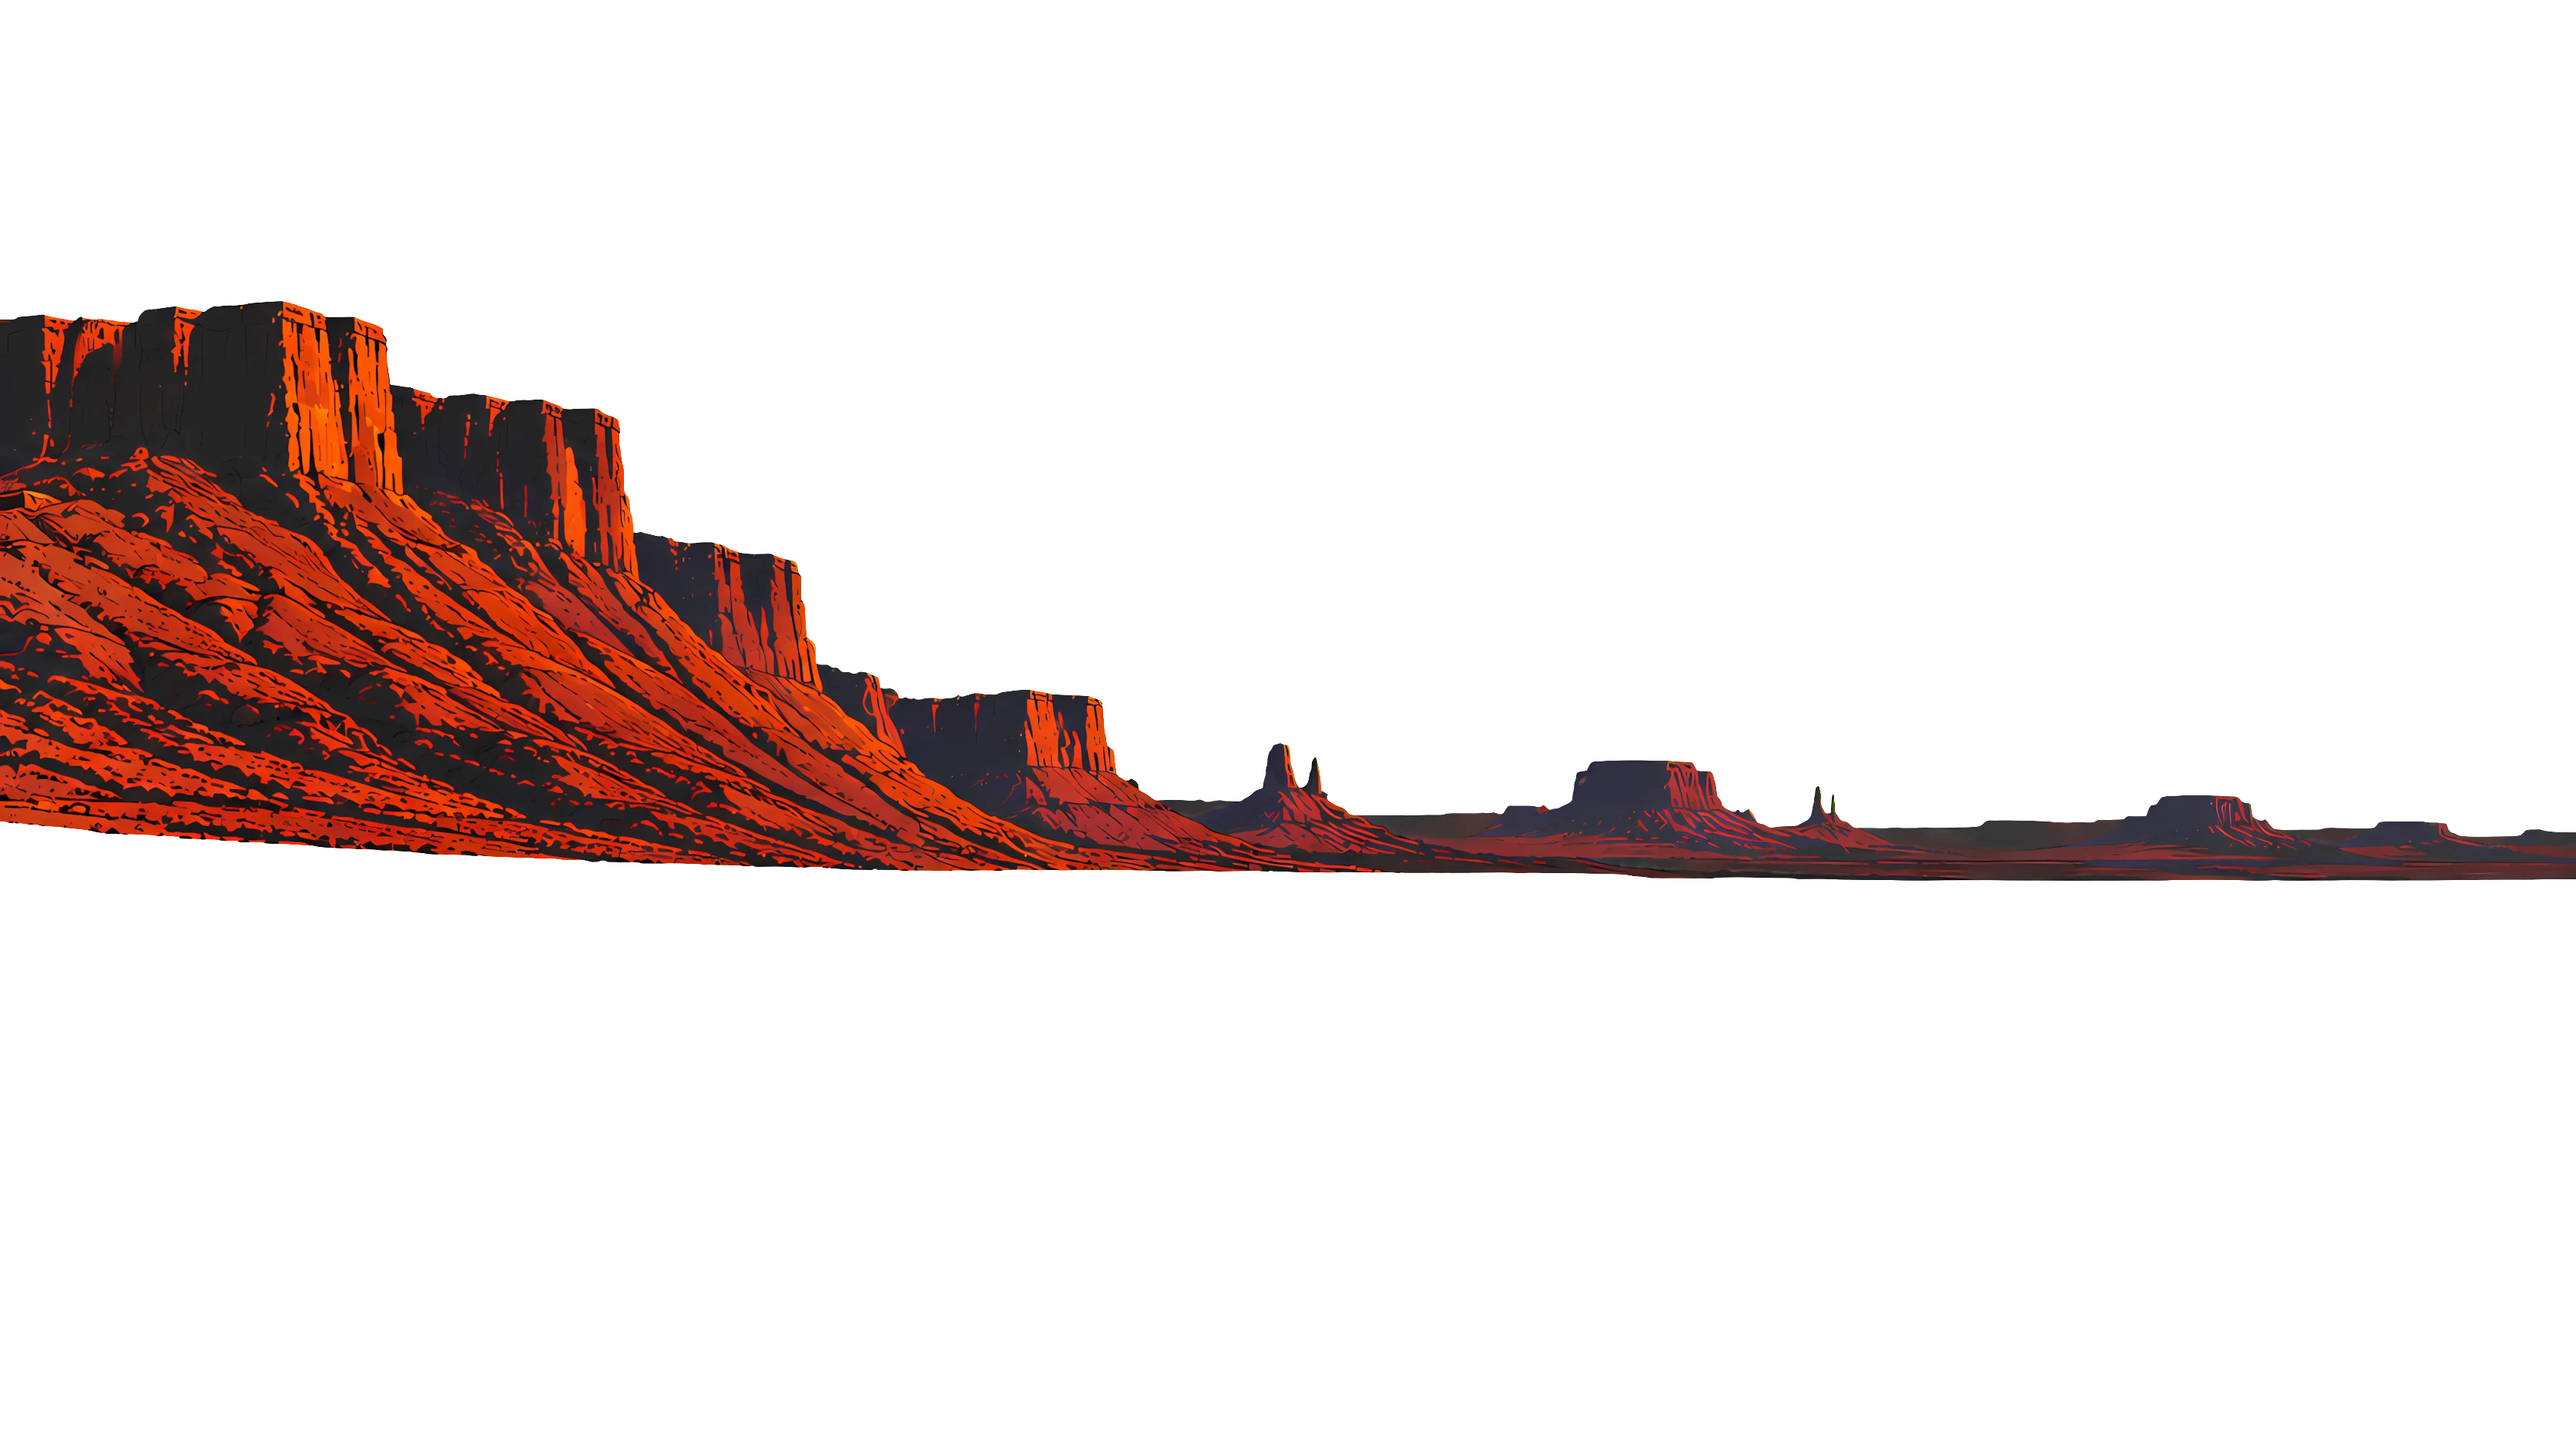
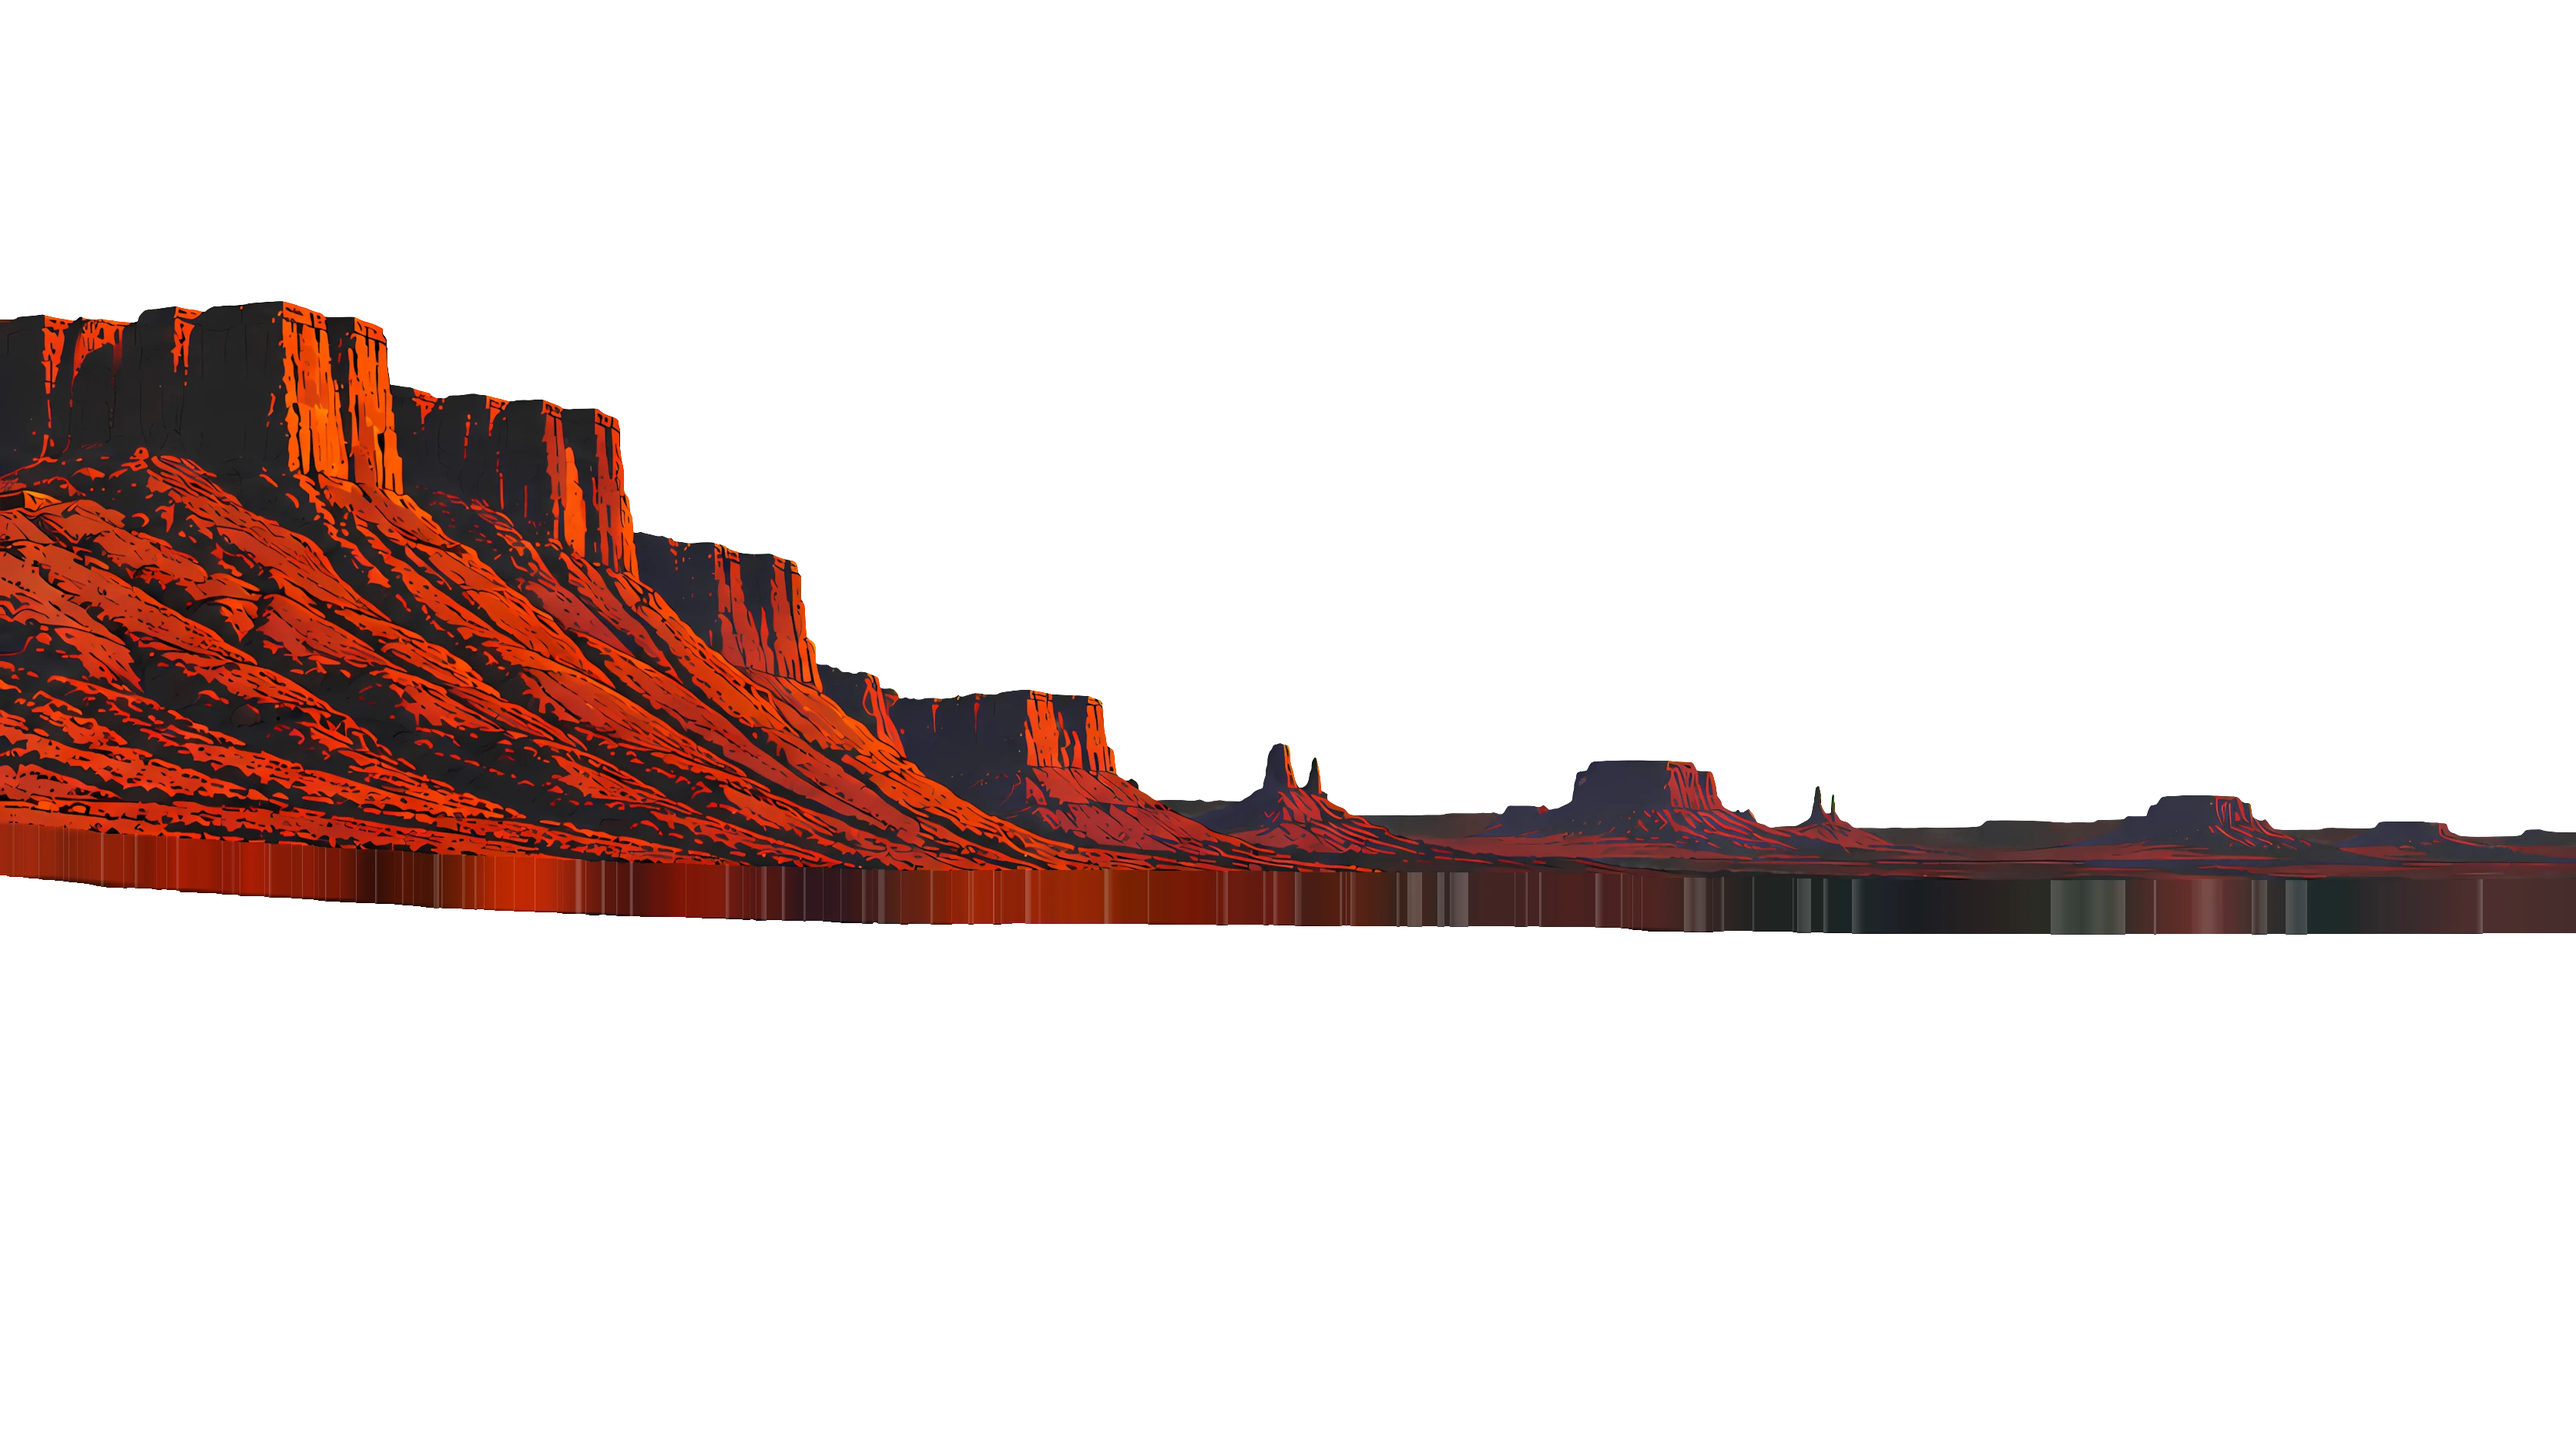
Hero: responsive srcset layers, defer non-critical layers, close mesa/ground horizon gap

Changed region(s): [[0.0, 0.5547, 1.0, 0.6472]]

diff --git a/src/components/scene/SceneCanvas.tsx b/src/components/scene/SceneCanvas.tsx
@@ -18,13 +18,17 @@ type Props = {
   overscan?: number;
   /** Background shown wherever layers move off the canvas. */
   bg?: string;
+  /** Skip the inpainted plate when an opaque full-canvas layer (e.g. a sky) already fills the back. */
+  plate?: boolean;
+  /** Layers that can arrive after first paint (hover reveals, small props). */
+  deferred?: string[];
 };
 
 /**
  * Stacks a scene's full-canvas layers so they line up 1:1, scaled to cover the viewport
  * (like object-fit: cover). Mouse movement drives a subtle parallax via CSS variables.
  */
-export function SceneCanvas({ scene, hide = [], children, priority, className = "", layerStyle = {}, overscan = 1.06, bg = "bg-ink" }: Props) {
+export function SceneCanvas({ scene, hide = [], children, priority, className = "", layerStyle = {}, overscan = 1.06, bg = "bg-ink", plate = true, deferred = [] }: Props) {
   const a = sceneAssets(scene);
   const depths = DEPTHS[scene];
   const ref = useRef<HTMLDivElement>(null);
@@ -63,7 +67,7 @@ export function SceneCanvas({ scene, hide = [], children, priority, className = 
         style={{ width: `max(100vw, ${100 * ratio}vh)`, height: `max(100vh, ${100 / ratio}vw)` }}
       >
         <div className="absolute inset-0" style={{ scale: overscan }}>
-          <img src={a.plate} alt="" className="absolute inset-0 h-full w-full select-none" draggable={false} />
+          {plate && <img src={a.plate} alt="" className="absolute inset-0 h-full w-full select-none" draggable={false} />}
           {a.layers
             .filter((l) => !hide.includes(l.id))
             .map((l) => (
@@ -73,7 +77,10 @@ export function SceneCanvas({ scene, hide = [], children, priority, className = 
                 alt=""
                 data-layer={l.id}
                 draggable={false}
-                fetchPriority={priority ? "high" : "auto"}
+                srcSet={l.srcset}
+                sizes={`(min-aspect-ratio: ${a.width}/${a.height}) 100vw, ${(100 * ratio).toFixed(1)}vh`}
+                decoding="async"
+                fetchPriority={deferred.includes(l.id) ? "low" : priority ? "high" : "auto"}
                 className="absolute inset-0 h-full w-full select-none will-change-transform"
                 style={{
                   transform: `translate3d(calc(var(--mx, 0) * ${-(depths[l.id] ?? 0.3) * 18}px), calc(var(--my, 0) * ${-(depths[l.id] ?? 0.3) * 10}px), 0)`,

diff --git a/src/components/hero/HeroScene.tsx b/src/components/hero/HeroScene.tsx
@@ -115,7 +115,7 @@ function Inner({ progress }: { progress: MotionValue<number> }) {
     return () => cancelAnimationFrame(raf);
   }, []);
 
-  useEffect(() => loadRvAlpha(layer("rv").src), []);
+  useEffect(() => loadRvAlpha(layer("rv").src.replace(".webp", "-1280.webp")), []);
 
   const moveLens = (e: ReactPointerEvent<HTMLButtonElement>) => {
     if (e.pointerType !== "mouse") return;
@@ -133,6 +133,8 @@ function Inner({ progress }: { progress: MotionValue<number> }) {
         priority
         overscan={1.02}
         bg="bg-dusk"
+        plate={false}
+        deferred={["rv-cutaway", "chairs", "tumbleweed"]}
         layerStyle={{
           sky: { transform: `translate3d(calc(${par("sky", "x")}), calc(${par("sky", "y")} + ${night * SUN_DROP}%), 0)` },
           "rv-cutaway": {
@@ -157,6 +159,8 @@ function Inner({ progress }: { progress: MotionValue<number> }) {
         {(
           <img
             src={layer("mesas").src}
+            srcSet={layer("mesas").srcset}
+            sizes={`(min-aspect-ratio: ${hero.width}/${hero.height}) 100vw, ${((100 * hero.width) / hero.height).toFixed(1)}vh`}
             alt=""
             aria-hidden
             className="pointer-events-none absolute inset-0 h-full w-full select-none motion-reduce:hidden"

diff --git a/src/scenes/config.ts b/src/scenes/config.ts
@@ -2,7 +2,7 @@ import generated from "./layers.generated.json";
 
 export type SceneId = keyof typeof generated.scenes;
 
-export type LayerDef = { id: string; src: string; bbox?: number[] };
+export type LayerDef = { id: string; src: string; srcset?: string; bbox?: number[] };
 export type SceneAssets = {
   width: number;
   height: number;

diff --git a/scripts/assets/build_scenes.py b/scripts/assets/build_scenes.py
@@ -74,6 +74,25 @@ def key_magenta(img: Image.Image) -> Image.Image:
     return Image.fromarray(rgba, "RGBA")
 
 
+def bleed_down(img: Image.Image, px: int) -> Image.Image:
+    """Smear a keyed layer's bottom edge downward, so it tucks under the layer in front (no sky gap)."""
+    a = np.asarray(img).copy()
+    filled = np.zeros(a.shape[:2], bool)
+    for _ in range(px):
+        below = np.roll(a, 1, axis=0)
+        below[0] = 0
+        hole = (a[..., 3] < 200) & (below[..., 3] >= 200)
+        a[hole] = below[hole]
+        filled |= hole
+    # smear sideways so the filled strip reads as flat horizon haze, not vertical streaks
+    soft = cv2.blur(a[..., :3], (151, 1))
+    a[filled, :3] = soft[filled]
+    return Image.fromarray(a, "RGBA")
+
+
+BLEED = {("hero", "mesas"): 70}  # px at source resolution
+
+
 def make_plate(master: Image.Image, keyed_layers) -> Image.Image:
     """Master with every keyed subject inpainted away: the bottom layer that fills gaps when layers move."""
     m = cv2.cvtColor(np.asarray(master.convert("RGB")), cv2.COLOR_RGB2BGR)
@@ -99,6 +118,21 @@ def export(img: Image.Image, size, dest: Path):
     return dest.with_suffix(".webp")
 
 
+WIDTHS = (1280, 1920)  # smaller copies for srcset, so phones and laptops don't pull the 4K file
+
+
+def export_responsive(img: Image.Image, size, dest: Path):
+    """Full-size layer plus smaller widths; returns a srcset string."""
+    export(img, size, dest)
+    parts = []
+    for w in WIDTHS:
+        if w < size[0]:
+            h = round(size[1] * w / size[0])
+            export(img.resize(size, Image.LANCZOS) if img.size != size else img, (w, h), dest.with_name(f"{dest.name}-{w}"))
+            parts.append(f"/scenes/{dest.parent.name}/{dest.name}-{w}.webp {w}w")
+    return ", ".join(parts + [f"/scenes/{dest.parent.name}/{dest.name}.webp {size[0]}w"])
+
+
 def fit(size):
     w, h = size
     return (MAX_W, round(h * MAX_W / w)) if w > MAX_W else size
@@ -119,10 +153,12 @@ for scene, (master, layers) in SCENES.items():
         im = key_magenta(im) if keyed else im.convert("RGB")
         if scene in UNIFY:
             im = unify(im)
+        if (scene, lid) in BLEED:
+            im = bleed_down(im, BLEED[(scene, lid)])
         if keyed:
             keyed_imgs.append(im)
-        export(im, size, OUT / scene / lid)
-        layer = {"id": lid, "src": f"/scenes/{scene}/{lid}.webp"}
+        srcset = export_responsive(im, size, OUT / scene / lid)
+        layer = {"id": lid, "src": f"/scenes/{scene}/{lid}.webp", "srcset": srcset}
         if keyed:  # bounding box of visible pixels, as fractions of the canvas (for hit areas / anchors)
             al = np.asarray(im)[..., 3]
             ys, xs = np.where(al > 30)
